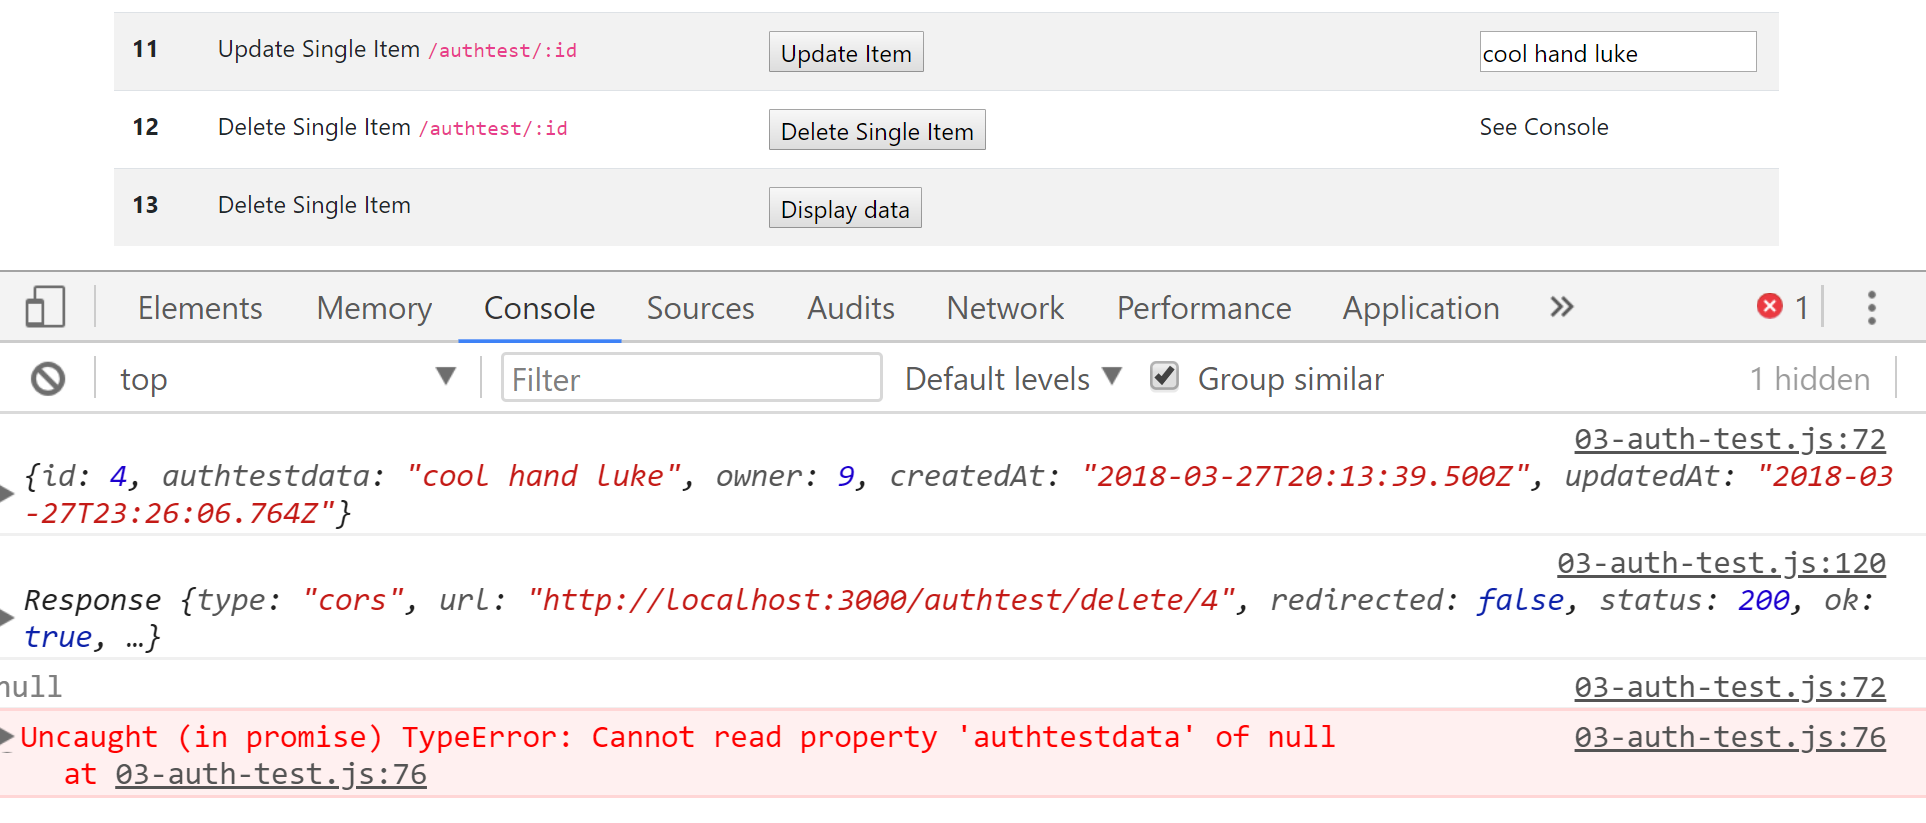
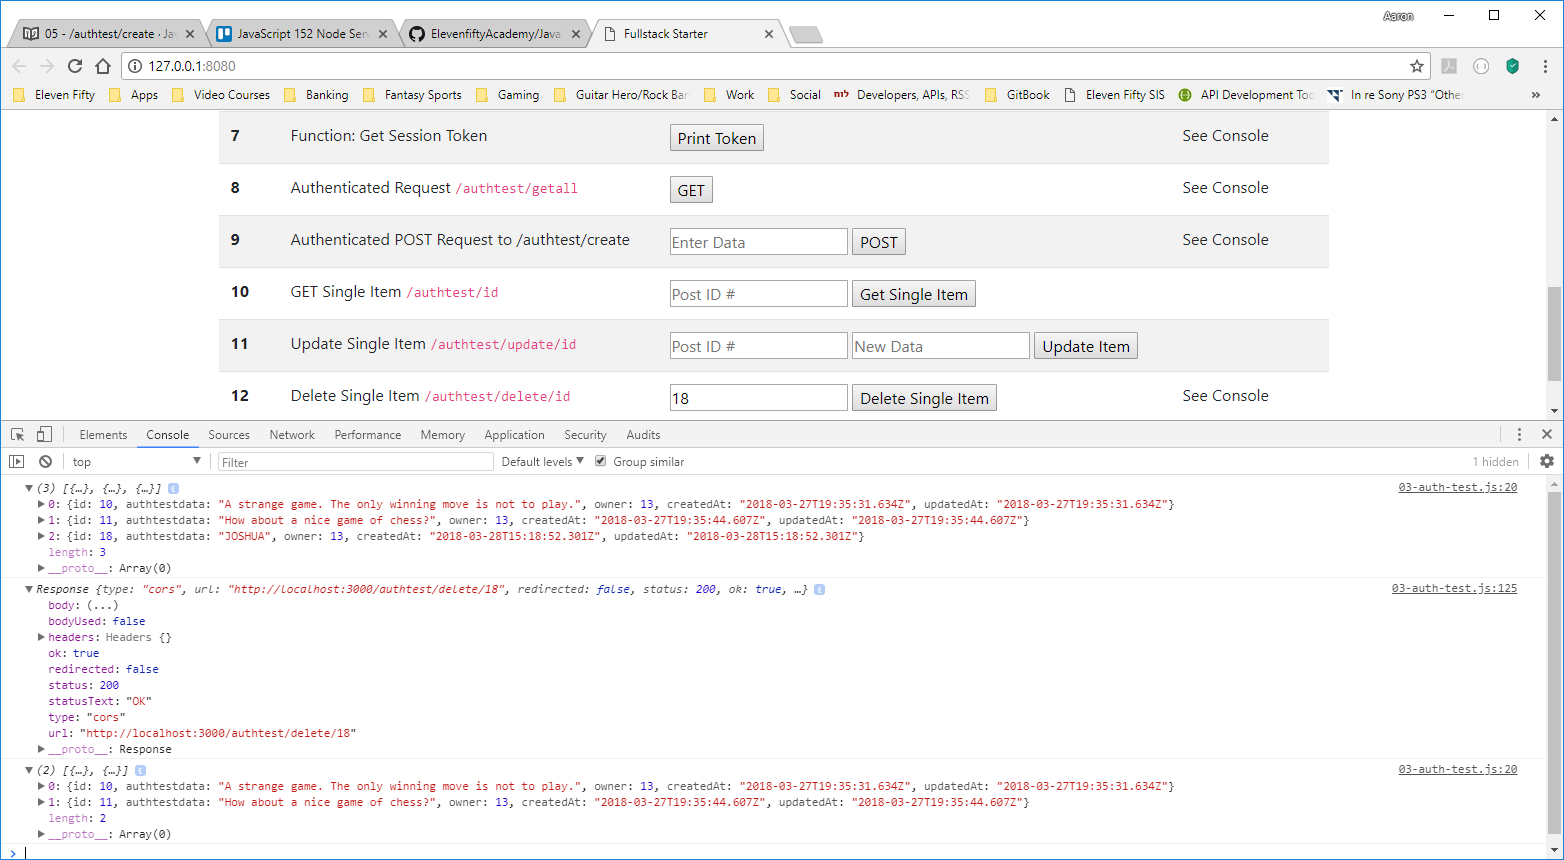
aaron - refactoring chapter 10, modules 6 and 8

diff --git a/docs/javascript_library/06-Express-Server/11-authenticated-requests/completedCode/client/03-auth-test.js b/docs/javascript_library/06-Express-Server/11-authenticated-requests/completedCode/client/03-auth-test.js
@@ -70,12 +70,8 @@ function getOneByUser() {
 			return response.json();
 		})
 		.then(function (response) {
-			// var myItem = document.querySelector('section.auth-test-put');
-			// var inputItem = document.createElement('label');
-			// inputItem.setAttribute("id", "auth-put");
-			var myItem = document.getElementById('getItemValue')
-			// inputItem.innerHTML = response.authtestdata;
-			// myItem.appendChild(inputItem);
+			console.log(response);
+			var myItem = document.getElementById('getItemValue');
 			myItem.innerHTML = response.authtestdata;
 		})
 }
@@ -127,6 +123,7 @@ function deleteItem() {
 	})
 		.then(response => {
 			console.log(response);
+			fetchAllFromAuthRoute();
 		})
 }
 

diff --git a/docs/javascript_library/06-Express-Server/11-authenticated-requests/06-get-single.md b/docs/javascript_library/06-Express-Server/11-authenticated-requests/06-get-single.md
@@ -12,8 +12,10 @@ Add the following method to the `03-auth-test.js` file:
  * GET ITEM BY USER
 *************************************/
 function getOneByUser() {
-	const fetch_url = `http://localhost:3000/authtest/4` // <-----Add your id number here. Ours was 4.  //1
-	const accessToken = localStorage.getItem('SessionToken')  
+	let postIdNumber = document.getElementById("getNumber").value; //1
+
+	const fetch_url = `http://localhost:3000/authtest/${postIdNumber}` //2
+	const accessToken = localStorage.getItem('SessionToken')
 
 	const response = fetch(fetch_url, {
 		method: 'GET',
@@ -24,33 +26,27 @@ function getOneByUser() {
 	})
 		.then(response => {
 			return response.json();
-
 		})
 		.then(function (response) {
 			console.log(response); 
-			var myItem = document.querySelector('section.auth-test-put');  //2
-			var inputItem = document.createElement('input');  //3
-			inputItem.setAttribute("id", "auth-put");  //4
-			inputItem.value = response.authtestdata; //5
-			myItem.appendChild(inputItem); //6
+			var myItem = document.getElementById('getItemValue'); //3
+			myItem.innerHTML = response.authtestdata; //4
 		})
 }
 ```
 
 ### Analysis
-1. We add our own individual id numbers to the url. Because we are making an authenticated request, this id has to exist for the user that you are using currently. The user that has a token stored in your localStorage.
-2. We target an element inside of a section with a class name of `auth-test-put`.
-3. We create an element called `inputItem`. It's an `input` tag.
-4. On the `input` tag we call `setAttribute`. This function will allow us to set an id or a class on an element. We set the `id` on this element, and we give it an id name of `auth-put`. We'll target this later. 
-5. We get the value of `response.authtestdata` and store this in the `input` element. This means that the data will be populated in the input field when the DOM loads.
-6. We call `appendChild()` on the `myItem` element. This means that we're adding the `input` element into the `section` element with an id of `auth-test-put`.
+1. We get the post ID number provided in the `getNumber` field. Because we are making an authenticated request, this id has to exist for the user that you are using currently logged in as (The user that has a token stored in your localStorage).
+2. We pass the post ID number into the url with a template literal.
+3. We target an element called `getItemValue`. It's a `label` tag.
+4. We set the value of the label to the value of `response.authtestdata`. This means that the data will be populated in the label when the DOM loads.
 
-<hr />
+<hr>
 
 ### Test
 1. Go ahead and run the app. 
-2. CLick the `Get Single Item` button. 
+2. Click the `Get Single Item` button. 
 3. You should see the following:
 ![screenshot](assets/06-get-single.PNG)
-4. Notice that we have pulled the single item from the server. In our case, the item has the id of '4'. 
-5. Also, notice that we have created and populated an input element in Step 11. It is showing the data that we have pulled in from the  server. We'll work on the update method next.
+4. Notice that we have pulled the single item from the server. In our case, the item has the id of `10`. 
+5. Not only did we print to the console, we added the data pulled from the server to the DOM in the label element on step 10.

diff --git a/docs/javascript_library/06-Express-Server/11-authenticated-requests/04-authtestone.md b/docs/javascript_library/06-Express-Server/11-authenticated-requests/04-authtestone.md
@@ -72,5 +72,40 @@ function fetchAllFromAuthRoute() {
 1. Make sure both the server and client are running.
 2. Open the console.
 3. Go to Step 8. 
-4. Press the button. Since you've just created your user, you will probably see an empty array. This is coming from the Postgres table:
+4. Press the button.
+
+You should have gotten some sort of error. The problem isn't with our code here. The problem lies with a file on the server side: the `validate-session.js` file, and specifically how that file handles the pre-flight `OPTIONS` request sent by our browser.
+
+### Small Refractor to `validate-session.js`
+As a reminder, here is the `validate-session` function:
+```js
+module.exports = function(req, res, next) {
+	// if (req.method == 'OPTIONS') {
+	// 	next()
+	// } else {
+		var sessionToken = req.headers.authorization; //PROBLEM IS RIGHT HERE
+		console.log(sessionToken)
+		if (!sessionToken) return res.status(403).send({ auth: false, message: 'No token provided.' });
+		else {
+			jwt.verify(sessionToken, process.env.JWT_SECRET, (err, decoded) => {
+				if(decoded){
+					User.findOne({where: { id: decoded.id}}).then(user => {
+						req.user = user;
+						next();
+					},
+					function(){
+						res.status(401).send({error: 'Not authorized'});
+					});
+				} else {
+					res.status(400).send({error: 'Not authorized'});
+				}
+			});
+		}
+	//}
+}
+```
+Notice the parts that are commented out: the `if` statement at the top and the corresponding `else`. When we used Postman to test, we never sent an `OPTIONS` request. Here is the result of that request: <br> ![OPTIONS](assets/01-fetchOPTIONSrequest.png) <br>
+You can see that there isn't an `Authorization` header on that request, so when `validate-session` looks for `req.headers.authorization`, it comes back undefined, breaking the rest of the function. That's where this conditional comes into play. One of the properties on `fetch` is `method`; This is where we tell fetch what HTTP Verb to use (`GET`, `POST`, etc.). This conditional allows us to tell the program to let any request where `req.method` is `OPTIONS` through without checking for a session token. This way the pre-flight check can occur, then the program will look for and verify a token on any other request. <br>
+
+Un-comment the `if/else` statement at the top, as well as the closing curly bracket at the bottom, then run the test above again. It should go through this time. However, since you've just created your user, you will probably see an empty array. This is coming from the Postgres table:
 ![screenshot](assets/04-authtestone.PNG)

diff --git a/docs/javascript_library/06-Express-Server/11-authenticated-requests/08-delete.md b/docs/javascript_library/06-Express-Server/11-authenticated-requests/08-delete.md
@@ -9,8 +9,9 @@ Add the following method to the `03-auth-test.js` file:
 
 ```js
 function deleteItem() {
-	const fetch_url = `http://localhost:3000/authtest/delete/4` // <----Add the id number that you've been using. #1
-	
+	let postIdNumber = document.getElementById("deleteNumber").value;
+
+	const fetch_url = `http://localhost:3000/authtest/delete/${postIdNumber}` //1
 	const accessToken = localStorage.getItem('SessionToken')
 
 	const response = fetch(fetch_url, {
@@ -20,23 +21,25 @@ function deleteItem() {
 			'Authorization': accessToken
 		}
 	})
-		.then(response => {
-			console.log(response);
+		.then(response => { //3
+			console.log(response); 
+			fetchAllFromAuthRoute()
 		})
 }
 ```
 
 ### Analysis
 This method is simple so far. Let's do two simple explanations.
-1. Again we add the correct id number. Our endpoint requires an id number. 
-2. Our HTTP verb is DELETE in this case, so we use the `DELETE` method.  
+1. Again we get the id number submitted by the user and passes it into the url via a template literal.  
+2. Our HTTP verb is DELETE in this case, so we use the `DELETE` method.
+3. We print the response to the console and also run the `fetchAllFromAuthRoute` function again, which will print all remaining items for our user to the console.
 
 <hr />
 
 ### Test
 1. Run the client and server.
-2. Press the `Delete` button.
-3. Then, press the `Get Single Item` button from Step 10. 
+2. Run Step 8 first to print the current contents of the database to the console. This will show you the `id` value for each item. 
+3. Enter the `id` number for the entry you want to delete into the field in step 12, then click `Delete Single Item`.
 4. You should see the following response:
 ![screenshot](assets/08-delete.PNG)
-5. Notice that the item is now showing as NULL. Why? Because it no longer exists in the database. 
+5. You can see both the response to the `DELETE` request and the contents of the database after the item was deleted. Refresh your database to make sure that it worked properly.

diff --git a/docs/javascript_library/06-Express-Server/10-authenticated-routes/02-validate-session.md b/docs/javascript_library/06-Express-Server/10-authenticated-routes/02-validate-session.md
@@ -55,7 +55,7 @@ There's a lot here, so take it slow through this explanation. Additional informa
 
 1. The variable `sessionToken` is created to hold the token, which is pulled from the authorization header of the request coming in.
 2. The token is printed to the console. This is purely for debugging purposes to verify that the token is being sent to the server. It should not be left in the final code, as it is a potential security vulnerability.
-3. If no token is present, the `403 Bad Request` error is returned as the response. We have several different error handling responses in this file, so assigning each a different error code or message is a big help in debugging.
+3. If no token is present, the `403 Forbidden` error is returned as the response. We have several different error handling responses in this file, so assigning each a different error code or message is a big help in debugging.
 4. If a token is present, we run the verification. The token is continually rechecked to ensure it is still valid.
 5. The `verify` method decodes the token with the provided secret, then sends a callback with two variables. If successful, `decoded` will contain the decoded payload; if not, `decoded` remains `undefined`. `err` is `null` by default.
 6. If `decoded` has a value, the Sequelize `findOne` method looks for an id in the `users` table that matches the `decoded.id` property. This value is then passed into a callback.

diff --git a/docs/javascript_library/06-Express-Server/10-authenticated-routes/04-authtestcontroller.md b/docs/javascript_library/06-Express-Server/10-authenticated-routes/04-authtestcontroller.md
@@ -84,7 +84,7 @@ module.exports = router;
 ```
 
 ### Short Analysis
-Although there are nuances that we'll discuss, the functions should seem somewhat familiar to you, based on our previous server functions. Here is a quick explanation for a few of them:
+Although there are nuances that we'll discuss, the functions should seem somewhat familiar to you, based on our previous server functions. Here is a quick explanation for each of them:
 
 |Function|Purpose|
 |:--------|:------|
@@ -94,4 +94,4 @@ Although there are nuances that we'll discuss, the functions should seem somewha
 
 <hr>
 
-Up until now, we've only done `GET` and `POST` requests. A full CRUD app lets you update and delete stuff, however, so we need to add some `DELETE` and `UPDATE` functionality. Let's talk a little more about each and set up a route for each before we start testing.
+Up until now, we've only done `GET` and `POST` requests. A full CRUD (**C**reate **R**ead **U**pdate **D**elete) app lets you update and delete stuff, however, so we need to add some `DELETE` and `UPDATE` functionality. Let's talk a little more about each and set up a route for each before we start testing.

diff --git a/docs/SUMMARY.md b/docs/SUMMARY.md
@@ -88,8 +88,9 @@
             * [06 - Get one item](javascript_library/06-Express-Server/11-authenticated-requests/06-get-single.md)
             * [07 - Update an Item](javascript_library/06-Express-Server/11-authenticated-requests/07-update-item.md)
             * [08 - Deleting an Item](javascript_library/06-Express-Server/11-authenticated-requests/08-delete.md)
+            * [09 - Deleting with a Custom Event](javascript_library/06-Express-Server/11-authenticated-requests/09-delete-from-dom.md)
         * [12 - Workout Log Server]()
-            * [00 - Intro](javascript_library/06-Express-Server/12-workoutLog-challengepi/00-intro.md) 
+            * [00 - Intro](javascript_library/06-Express-Server/12-workoutLog-challenge/00-intro.md) 
         * [13 - Migrations]()
             * [00 - Intro](javascript_library/06-Express-Server/13-migrations/00-migrations-intro.md)
             * [01 - init and config](javascript_library/06-Express-Server/13-migrations/01-init-config.md)

diff --git a/docs/javascript_library/06-Express-Server/11-authenticated-requests/01-intro.md b/docs/javascript_library/06-Express-Server/11-authenticated-requests/01-intro.md
@@ -27,4 +27,3 @@ When we complete a `fetch` here, we are kicking off a multi-step process in this
 1. Before it sends off the GET or POST request to the server, the browser performs a `pre-flight` check.  
 
 2. If everything checks out with our PreFlight request, the server responds with a `200 OK` and fetch follows with the request/response that has been proclaimed (`GET`, `POST`, `PUT`, etc.), seen here: <br> ![2nd request](assets/01-fetch2ndrequest.png) <br>
-

diff --git a/docs/javascript_library/06-Express-Server/10-authenticated-routes/01-auth-routes-intro.md b/docs/javascript_library/06-Express-Server/10-authenticated-routes/01-auth-routes-intro.md
@@ -32,7 +32,6 @@ module.exports = function(sequelize, DataTypes) {
             });
     };
 ```
-
 3. Notice that we will be providing two properties: `authtestdata` and `owner`.
-4. Think of `authtestdata` as a string like test data.
+4. Think of `authtestdata` as a string, like `testdata`.
 5. The `owner` is a number, a foreign key, that will point to a specific user on the users table. 

diff --git a/docs/javascript_library/06-Express-Server/11-authenticated-requests/09-delete-from-dom.md b/docs/javascript_library/06-Express-Server/11-authenticated-requests/09-delete-from-dom.md
@@ -1,0 +1,2 @@
+# DELETE WITH AN EVENT
+---
